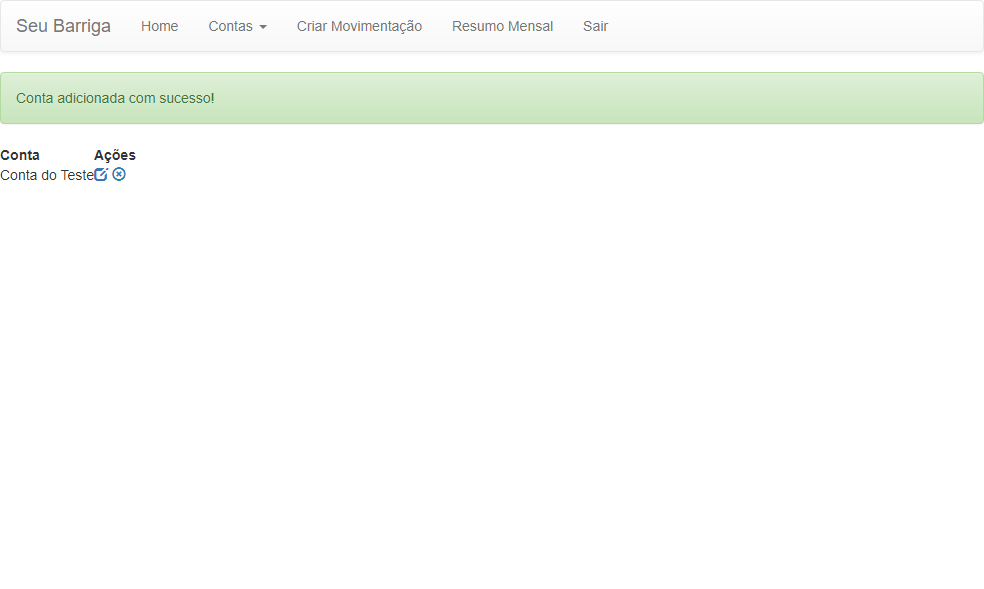
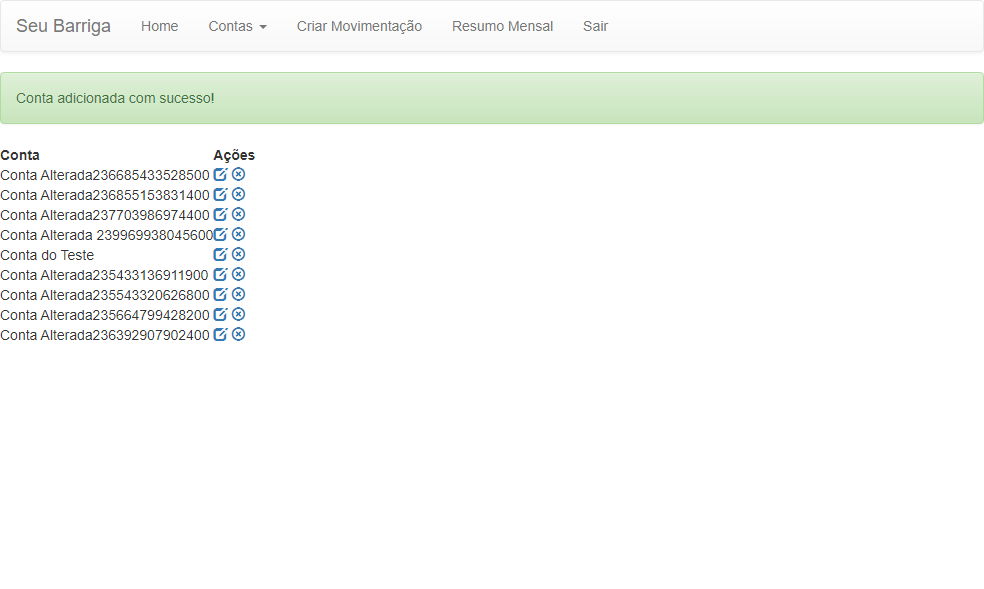
Teste do Resumo Mnesal Vazio

Changed region(s): [[0.0, 0.2445, 0.2744, 0.5806]]

diff --git a/src/main/java/br/ce/marcos/suites/SuiteGeral.java b/src/main/java/br/ce/marcos/suites/SuiteGeral.java
@@ -1,9 +1,13 @@
 package br.ce.marcos.suites;
 
+import org.junit.AfterClass;
+import org.junit.BeforeClass;
 import org.junit.runner.RunWith;
 import org.junit.runners.Suite;
 import org.junit.runners.Suite.SuiteClasses;
 
+import br.ce.marcos.core.DriverFactory;
+import br.ce.marcos.pages.LoginPage;
 import br.ce.marcos.tests.ContaTest;
 import br.ce.marcos.tests.MovimentacaoTest;
 import br.ce.marcos.tests.RemoverMovimentacaoContaTest;
@@ -20,5 +24,21 @@ import br.ce.marcos.tests.SaldoTest;
 })
                
 public class SuiteGeral {
+	private static LoginPage page = new LoginPage();
+	
+	
+	@BeforeClass
+	public static void inicializa() {
+		page.acessarTelaInicial();
+		
+		page.setEmail("teste@teste21.com");
+		page.setSenha("teste");
+		page.entrar();
+	}
+	
+	@AfterClass
+	public static void finaliza(){
+		DriverFactory.killDriver();
+	}
 
 }

diff --git a/src/main/java/br/ce/marcos/core/BaseTest.java b/src/main/java/br/ce/marcos/core/BaseTest.java
@@ -8,30 +8,15 @@ import java.io.IOException;
 
 import org.apache.commons.io.FileUtils;
 import org.junit.After;
-import org.junit.Before;
 import org.junit.Rule;
 import org.junit.rules.TestName;
 import org.openqa.selenium.OutputType;
 import org.openqa.selenium.TakesScreenshot;
 
-import br.ce.marcos.pages.LoginPage;
-
 public class BaseTest {
-	
-	private LoginPage page = new LoginPage();
 	
 	@Rule
 	public TestName testName= new TestName();
-	
-	@Before
-	public void inicializa() {
-		page.acessarTelaInicial();
-		
-		page.setEmail("teste@teste21.com");
-		page.setSenha("teste");
-		page.entrar();
-	}
-	
 	
 	@After
 	public void finaliza() throws IOException {

diff --git a/src/main/java/br/ce/marcos/tests/SaldoTest.java b/src/main/java/br/ce/marcos/tests/SaldoTest.java
@@ -4,14 +4,18 @@ import org.junit.Assert;
 import org.junit.Test;
 
 import br.ce.marcos.core.BaseTest;
+import br.ce.marcos.core.Propriedades;
 import br.ce.marcos.pages.HomePage;
+import br.ce.marcos.pages.MenuPage;
 
 public class SaldoTest extends BaseTest {
-	HomePage page = new HomePage();
-
+	private HomePage page = new HomePage();
+	private MenuPage menuPage = new MenuPage();
+	
 	@Test
 	public void testSaldoConta() {
-		Assert.assertEquals("500.00", page.obterSaldoConta("Conta do Teste alterada"));
+		menuPage.acessarTelaPrincipal();
+		Assert.assertEquals("500.00", page.obterSaldoConta(Propriedades.NOME_CONTA_ALTERADA));
 		
 	}	
 }

diff --git a/src/main/java/br/ce/marcos/core/Propriedades.java b/src/main/java/br/ce/marcos/core/Propriedades.java
@@ -2,9 +2,11 @@ package br.ce.marcos.core;
 
 public class Propriedades {
 	
-	public static boolean FECHAR_BROWSER = true;
+	public static boolean FECHAR_BROWSER = false;
 
 	public static Browsers browser = Browsers.EDGE;
+	
+	public static String NOME_CONTA_ALTERADA = "Conta Alterada " + System.nanoTime();
 	
 	public enum Browsers {
 		EDGE,

diff --git a/src/main/java/br/ce/marcos/pages/MenuPage.java b/src/main/java/br/ce/marcos/pages/MenuPage.java
@@ -21,4 +21,8 @@ public class MenuPage extends BasePage {
 	public void acessarTelaResumo() {
 		clicarLink("Resumo Mensal");
 	}
+		
+	public void acessarTelaPrincipal(){
+		clicarLink("Home");
+	}
 }
